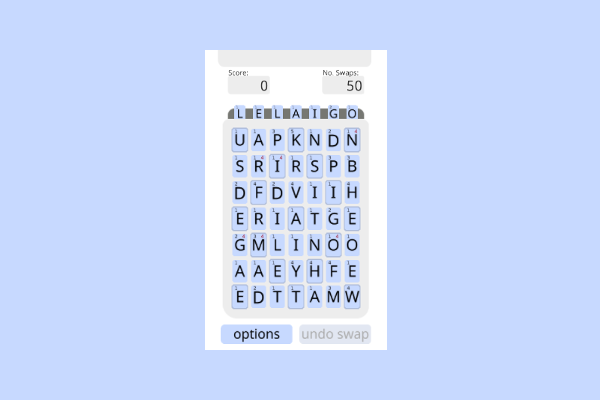
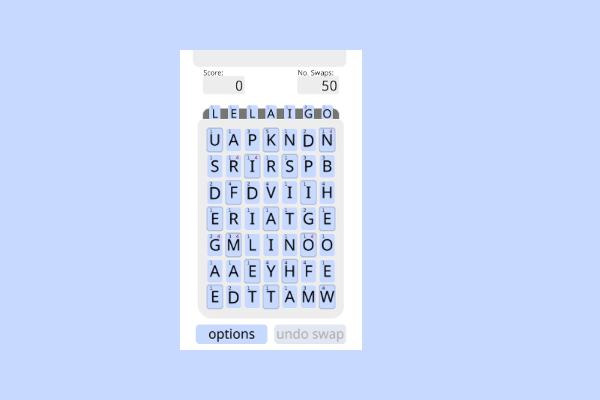
Add files via upload

Changed region(s): [[0.3, 0.12, 0.66, 0.9]]

diff --git a/wordplay.html b/wordplay.html
@@ -56,10 +56,10 @@
 			    </div>
 
 				<div class="col-sm-4">
-				  <img class="mySlides" src="/Photos/baseImage.png" style="width:250px; height:400px;">
-				  <img class="mySlides" src="/Photos/selectWordPerp.png"  style="width:250px; height:400px;">
-				  <img class="mySlides" src="/Photos/imageDrop.png"  style="width:250px; height:400px;">
-				  <img class="mySlides" src="/Photos/imageMin.png"  style="width:250px; height:400px;">
+				  <img class="mySlides" src="/Photos/baseImage.png" style="width:270px; height:400px;">
+				  <img class="mySlides" src="/Photos/selectWordPerp.png"  style="width:270px; height:400px;">
+				  <img class="mySlides" src="/Photos/imageDrop.png"  style="width:270px; height:400px;">
+				  <img class="mySlides" src="/Photos/imageMin.png"  style="width:270px; height:400px;">
 
 				  <a class="w3-btn-floating w3-display-left" onclick="plusDivs(-1)">&#10094;</a>
 				  <a class="w3-btn-floating w3-display-right" onclick="plusDivs(1)">&#10095;</a>
@@ -96,6 +96,8 @@
 
 		<div class="footer">
 			<ul class="col-sm-8">
+				<li class ="col-sm-3">
+				</li>
 			 	<li class="col-sm-1">
 			 		<a href="https://twitter.com/zshep427">
 			 		<img src="https://cdn3.iconfinder.com/data/icons/picons-social/57/43-twitter-512.png" style="height: 50px; width: 50px"/> 

diff --git a/main.css b/main.css
@@ -90,7 +90,7 @@ li
 }
 
 .mainColor .footer {
-	background-color: #EBEBEB !important;
+	background-color: #EBEBEB;
 }
 
 
@@ -141,6 +141,7 @@ li
     background-size: cover;
     display: block;
     margin: auto;
+    margin-left: 200px;
     height: 150px ;
     width: 400px ;
 }
@@ -171,7 +172,8 @@ li
     background-size: cover;
     display: block;
     margin: auto;
-    height: 200px ;
+    margin-left: 200px;
+    height: 150px ;
     width: 400px ;
 }
 
